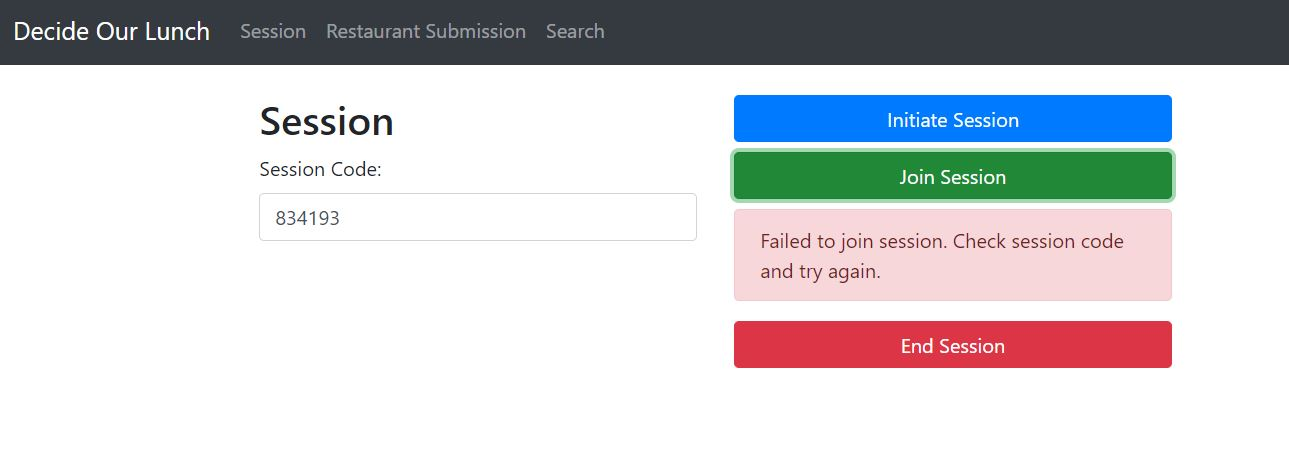
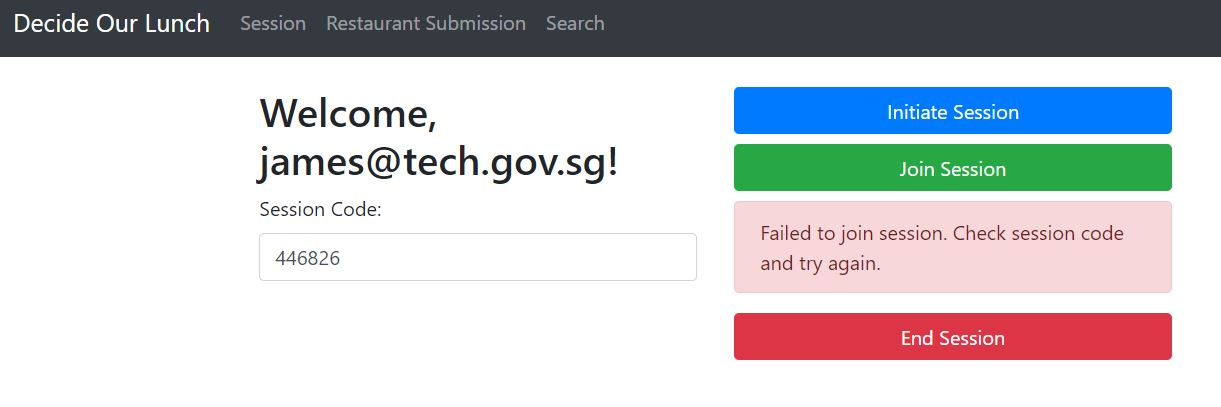
added welcome html

diff --git a/src/session/session/session.component.html b/src/session/session/session.component.html
@@ -1,7 +1,7 @@
 <div class="container mt-4">
   <div class="row">
     <div class="col-md-4">
-      <h2>Session</h2>
+      <h2>Welcome, {{ username }}!</h2>
       <div class="form-group">
         <label for="sessionCode">Session Code:</label>
         <input type="number" class="form-control" id="sessionCode" [(ngModel)]="sessionCode" placeholder="Enter Session Code" />
